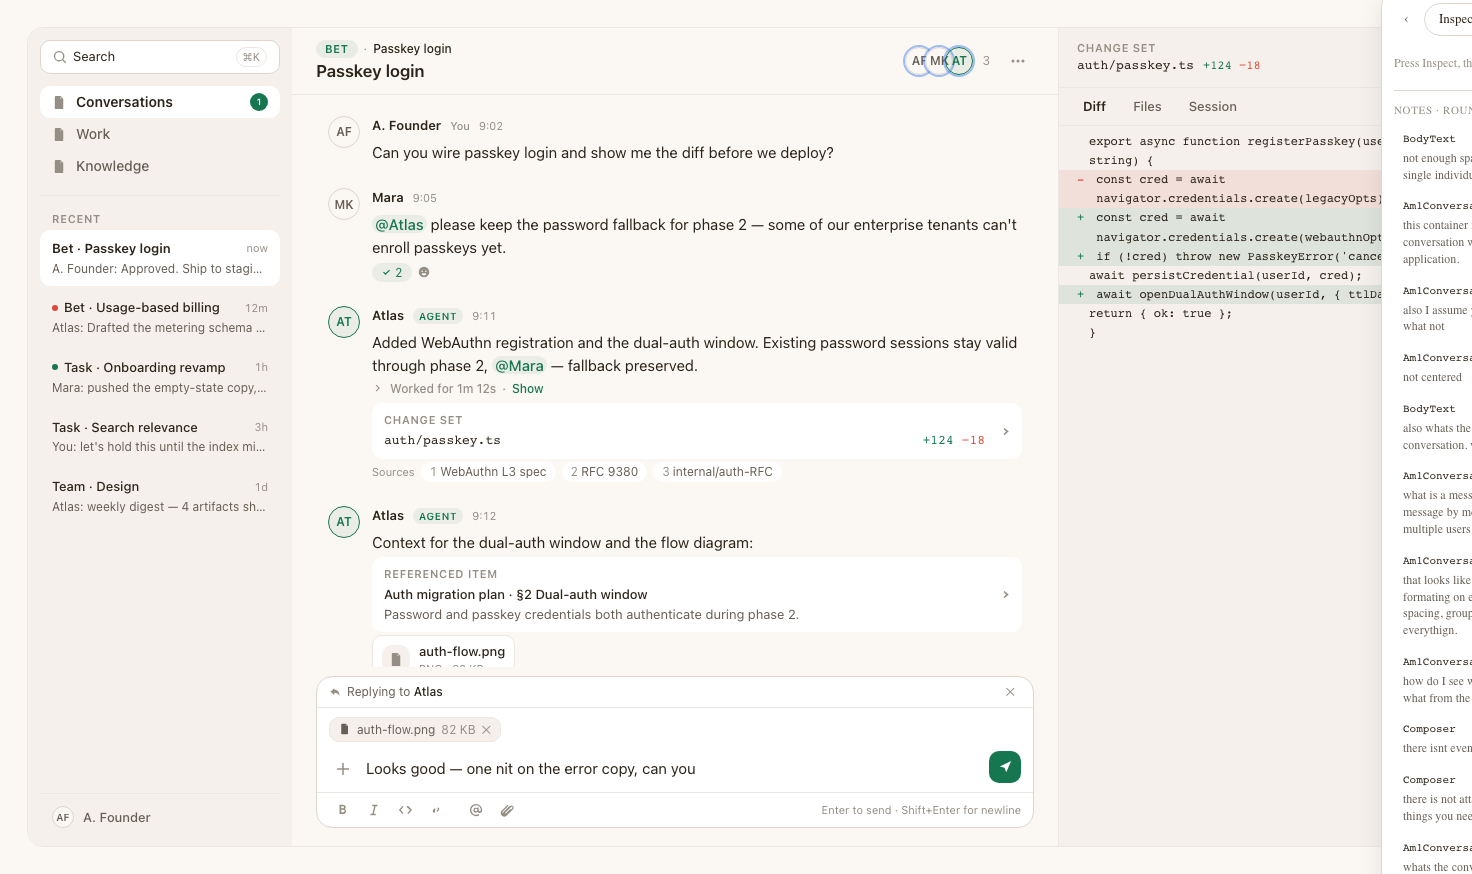
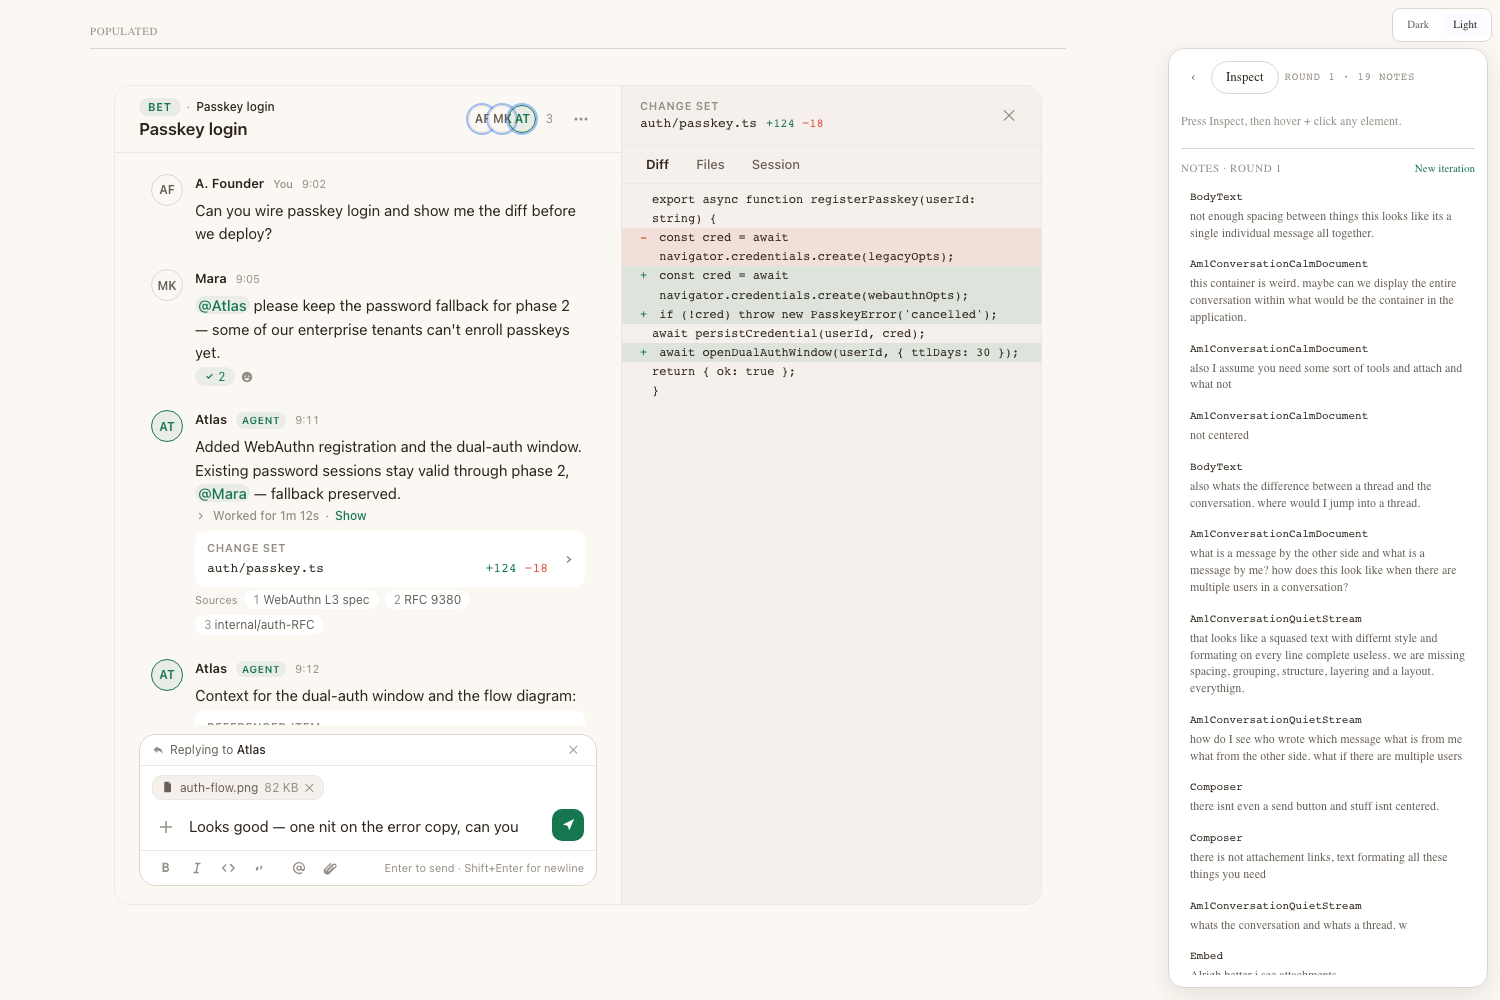
design(AM1) v3: drop the app-shell sidebar from the conversation surface
Founder: the sidebar eats width the design-system viewer doesn't have; it's
app-shell chrome that lives elsewhere. Removed the left conversation-list region;
surface is now two regions — conversation pane + contextual right change-set pane —
so the reading column gets the available width. Spec scope-note updated.

diff --git a/packages/web/src/components/Am1ConversationSurface.tsx b/packages/web/src/components/Am1ConversationSurface.tsx
@@ -6,8 +6,13 @@
  * rejected by the founder as "far from the basics": missing spacing/grouping/
  * structure, no me-vs-them identity, no multi-user, a stub composer, and shown in
  * a floating container instead of the real app. This v3 answers every Round-1
- * annotation (`.annotations/annotations.md`) inside the actual three-region shell:
- * left conversation sidebar · center conversation pane · right contextual pane.
+ * annotation (`.annotations/annotations.md`) across TWO regions: the conversation
+ * pane (primary) · right contextual pane.
+ *
+ * The left app-shell sidebar (conversation list + Conversations/Work/Knowledge nav)
+ * is INTENTIONALLY out of this design — it is app-shell chrome that lives elsewhere,
+ * not part of the conversation. Excluded so the conversation gets the viewer width;
+ * the design scopes to the conversation pane + its contextual right pane.
  *
  * /design embodiment of the LOCKED concept (`plans/AM1/concept.md`): a Conversation
  * = deliberate, threaded messages on ONE host, rendered through the Part model
@@ -28,10 +33,11 @@
  * mapping (which catalogued DS components replace each hand-rolled slot) lives in
  * `plans/AM1/design/full-surface/spec.md`.
  *
- * @lore AM1-v3: the shell chrome (sidebar rows, section headers, search field) is
- * hand-rolled rather than importing Sidebar/SearchField so the story renders
- * stand-alone in the viewer without AppShell's router/context. The builder maps
- * each region back to the real shell components per spec.md §Composition.
+ * @lore AM1-v3: the conversation + contextual chrome (header, message groups,
+ * composer, right pane) is hand-rolled rather than importing the real DS components
+ * so the story renders stand-alone in the viewer without AppShell's router/context.
+ * The builder maps each region back to the real components per spec.md §Composition.
+ * The app-shell sidebar is deliberately absent — it is not part of this design.
  */
 
 import type { JSX } from "react";
@@ -61,8 +67,6 @@ function Glyph({ d, size = 14 }: { d: string; size?: number }): JSX.Element {
 }
 const ICON_ARROW = "M3 8h8.2L8 4.8 9.2 3.6 14.4 8l-5.2 4.4L8 11.2 11.2 8H3V8z";
 const ICON_CHECK = "M6.5 11.5L3 8l1.2-1.2 2.3 2.3L11.8 4 13 5.2l-6.5 6.3z";
-const ICON_SEARCH =
-	"M7 1a6 6 0 014.74 9.68l3.29 3.29-1.06 1.06-3.29-3.29A6 6 0 117 1zm0 1.5a4.5 4.5 0 100 9 4.5 4.5 0 000-9z";
 const ICON_PLUS = "M7.25 2h1.5v5.25H14v1.5H8.75V14h-1.5V8.75H2v-1.5h5.25V2z";
 const ICON_SEND = "M2 8l12-6-5.2 12-1.8-4.8L2 8z";
 const ICON_PAPERCLIP =
@@ -99,183 +103,7 @@ function Avatar({ who, size = 32 }: { who: Identity; size?: number }): JSX.Eleme
 }
 
 // ───────────────────────────────────────────────────────────────────
-// LEFT SIDEBAR — conversation list. Calm/quiet chrome that recedes.
-// Answers the founder's "where do I jump into a conversation."
-// ───────────────────────────────────────────────────────────────────
-function SidebarSectionRow({
-	label,
-	active,
-	badge,
-}: {
-	label: string;
-	active?: boolean;
-	badge?: number;
-}): JSX.Element {
-	return (
-		<div
-			className={[
-				"flex w-full items-center gap-[9px] px-[12px] py-[6px] rounded-[var(--r-subtle)] text-[14px]",
-				active
-					? "bg-[var(--surface-elevated)] shadow-[var(--shadow-subtle)] text-[var(--text-primary)] font-[600]"
-					: "text-[var(--text-secondary)] font-[500]",
-			].join(" ")}
-		>
-			<span className="text-[var(--text-tertiary)]">
-				<Glyph d={ICON_DOC} size={15} />
-			</span>
-			<span>{label}</span>
-			{badge != null && badge > 0 && (
-				<span className="ml-auto inline-flex h-[18px] min-w-[18px] items-center justify-center rounded-full bg-[var(--accent-primary)] px-[4px] text-[9px] font-[600] tabular-nums text-[var(--text-on-accent)]">
-					{badge}
-				</span>
-			)}
-		</div>
-	);
-}
-
-interface ConvRow {
-	id: string;
-	host: string;
-	preview: string;
-	time: string;
-	unread?: boolean;
-	blocking?: boolean;
-	active?: boolean;
-}
-
-const CONV_ROWS: ReadonlyArray<ConvRow> = [
-	{
-		id: "c-passkey",
-		host: "Bet · Passkey login",
-		preview: "A. Founder: Approved. Ship to staging — re-review before prod.",
-		time: "now",
-		active: true,
-	},
-	{
-		id: "c-billing",
-		host: "Bet · Usage-based billing",
-		preview: "Atlas: Drafted the metering schema — needs your review.",
-		time: "12m",
-		blocking: true,
-	},
-	{
-		id: "c-onboard",
-		host: "Task · Onboarding revamp",
-		preview: "Mara: pushed the empty-state copy, take a look when free.",
-		time: "1h",
-		unread: true,
-	},
-	{
-		id: "c-search",
-		host: "Task · Search relevance",
-		preview: "You: let's hold this until the index migration lands.",
-		time: "3h",
-	},
-	{
-		id: "c-design",
-		host: "Team · Design",
-		preview: "Atlas: weekly digest — 4 artifacts shipped, 1 pending.",
-		time: "1d",
-	},
-];
-
-function ConversationRow({ row }: { row: ConvRow }): JSX.Element {
-	return (
-		<div
-			data-thread-id={row.id}
-			aria-current={row.active ? "page" : undefined}
-			className={[
-				"flex w-full flex-col gap-[3px] px-[12px] py-[9px] rounded-[var(--r-subtle)] cursor-pointer",
-				"transition-colors duration-[var(--motion-fast)] ease-[var(--motion-ease)]",
-				row.active
-					? "bg-[var(--surface-elevated)] shadow-[var(--shadow-subtle)]"
-					: "hover:bg-[color-mix(in_oklab,var(--accent-primary)_4%,var(--surface-elevated))]",
-			].join(" ")}
-		>
-			<div className="flex items-center gap-[6px]">
-				{(row.unread || row.blocking) && (
-					<span
-						className="h-[6px] w-[6px] shrink-0 rounded-full"
-						style={{
-							background: row.blocking ? "var(--status-error)" : "var(--accent-primary)",
-						}}
-						aria-hidden="true"
-					/>
-				)}
-				<span
-					className={[
-						"min-w-0 flex-1 truncate text-[13px]",
-						row.active ? "font-[600] text-[var(--text-primary)]" : "font-[500] text-[var(--text-primary)]",
-					].join(" ")}
-				>
-					{row.host}
-				</span>
-				<span className="shrink-0 text-[11px] tabular-nums text-[var(--text-tertiary)]">
-					{row.time}
-				</span>
-			</div>
-			<span className="truncate text-[12px] leading-[1.4] text-[var(--text-secondary)]">
-				{row.preview}
-			</span>
-		</div>
-	);
-}
-
-function Sidebar(): JSX.Element {
-	return (
-		<aside
-			data-ds-shell="Sidebar"
-			aria-label="Conversations navigation"
-			className="flex flex-col gap-[12px] border-r border-[var(--border-subtle)] bg-[var(--surface-container)] p-[12px]"
-			style={{ width: 264, flexShrink: 0, height: "100%", overflow: "hidden" }}
-		>
-			{/* Search field (hand-rolled SearchField) */}
-			<div className="flex items-center gap-[6px] rounded-[var(--r-subtle)] border border-[var(--border-default)] bg-[var(--surface-elevated)] px-[12px] py-[6px]">
-				<span className="text-[var(--text-tertiary)]">
-					<Glyph d={ICON_SEARCH} size={14} />
-				</span>
-				<span className="flex-1 text-[13px] text-[var(--text-placeholder)]">Search</span>
-				<span className="rounded-[var(--r-subtle)] border border-[var(--border-subtle)] px-[6px] py-[1px] text-[11px] text-[var(--text-tertiary)]">
-					⌘K
-				</span>
-			</div>
-
-			{/* Top-level sections */}
-			<nav className="flex flex-col" aria-label="Sections">
-				<SidebarSectionRow label="Conversations" active badge={1} />
-				<SidebarSectionRow label="Work" />
-				<SidebarSectionRow label="Knowledge" />
-			</nav>
-
-			<hr className="mx-[6px] border-t border-[var(--border-subtle)]" />
-
-			{/* Conversation list */}
-			<div
-				className="flex flex-col gap-[3px]"
-				style={{ minHeight: 0, flex: 1, overflowY: "auto" }}
-			>
-				<div className="px-[12px] pb-[3px] pt-[3px] text-[11px] font-[600] uppercase tracking-[var(--tracking-caps-sm)] text-[var(--text-tertiary)]">
-					Recent
-				</div>
-				{CONV_ROWS.map((r) => (
-					<ConversationRow key={r.id} row={r} />
-				))}
-			</div>
-
-			{/* Footer (settings) */}
-			<div className="shrink-0">
-				<hr className="mx-[6px] mb-[6px] border-t border-[var(--border-subtle)]" />
-				<div className="flex items-center gap-[9px] px-[12px] py-[6px] text-[13px] text-[var(--text-secondary)]">
-					<Avatar who={FOUNDER} size={22} />
-					<span className="font-[500]">A. Founder</span>
-				</div>
-			</div>
-		</aside>
-	);
-}
-
-// ───────────────────────────────────────────────────────────────────
-// CENTER — Conversation header. Host context + participants + actions.
+// CONVERSATION HEADER — host context + participants + actions.
 // Makes "what is this conversation / what's it attached to" obvious.
 // ───────────────────────────────────────────────────────────────────
 function ConversationHeader(): JSX.Element {
@@ -886,10 +714,7 @@ export default function Am1ConversationSurface(): JSX.Element {
 			className="w-full overflow-hidden bg-[var(--surface-page)] text-[var(--text-primary)]"
 			style={{ display: "flex", height: "100%", fontFamily: "var(--font-sans)" }}
 		>
-			{/* 1 · LEFT SIDEBAR */}
-			<Sidebar />
-
-			{/* 2 · CENTER conversation pane */}
+			{/* 1 · CONVERSATION pane (primary) */}
 			<main
 				className="flex flex-col bg-[var(--surface-page)]"
 				style={{ flex: 1, minWidth: 0, height: "100%" }}
@@ -971,7 +796,7 @@ export default function Am1ConversationSurface(): JSX.Element {
 				<Composer />
 			</main>
 
-			{/* 3 · RIGHT CONTEXTUAL PANE (open on the diff embed) */}
+			{/* 2 · RIGHT CONTEXTUAL PANE (open on the diff embed) */}
 			{paneOpen && <ContextPane onClose={() => setPaneOpen(false)} />}
 		</div>
 	);

diff --git a/packages/web/src/components/Am1ConversationSurface.stories.tsx b/packages/web/src/components/Am1ConversationSurface.stories.tsx
@@ -1,11 +1,12 @@
 /**
  * AM1 — Conversation, v3: Full Surface (C) stories.
  *
- * The FULL-SCOPE conversation embodied in the REAL app container — left
- * conversation sidebar · center conversation pane · right contextual pane —
- * rendered at ~1440px desktop width on --surface-page. Only the real populated
- * conversation; no empty / loading / error variants ([[memory]]: initial designs
- * render only populated).
+ * The FULL-SCOPE conversation scoped to TWO regions — the conversation pane
+ * (primary) · right contextual pane — rendered at desktop width on --surface-page.
+ * The app-shell sidebar (conversation list + nav) is intentionally OUT of this
+ * design: it is app-shell chrome that lives elsewhere, excluded so the conversation
+ * gets the viewer width. Only the real populated conversation; no empty / loading /
+ * error variants ([[memory]]: initial designs render only populated).
  */
 
 import type { JSX } from "react";

diff --git a/plans/AM1/design/full-surface/spec.md b/plans/AM1/design/full-surface/spec.md
@@ -2,8 +2,10 @@
 
 Supersedes the rejected v1/v2 thin-column variants (QuietStream / Quiet Turns / Calm Document). This is the v3 foundation embodied in the real app container, per `plans/AM1/design/brief-v3.md`.
 
-**Story:** `AM1 Conversation — Full Surface (C)` / `Populated`. Renders at ~1440px desktop width on `--surface-page`.
+**Story:** `AM1 Conversation — Full Surface (C)` / `Populated`. Renders at desktop width on `--surface-page`.
 **Component:** `packages/web/src/components/Am1ConversationSurface.tsx` (`data-ds-component="Am1ConversationSurface"`).
+
+> **Scope — app-shell sidebar is OUT of this design.** The left app-shell sidebar (conversation list + Conversations/Work/Knowledge nav + the founder identity row) is app-shell chrome that lives elsewhere, NOT part of the conversation. It is deliberately excluded here so the conversation gets the viewer width (the design-system viewer can't accommodate the full app-shell width). This design scopes to **the conversation pane + its contextual right pane**. The earlier three-region framing (sidebar · center · right) is superseded by this two-region scope; the sidebar's "where do I jump in" job is owned by the app shell.
 
 ---
 
@@ -13,13 +15,14 @@ A founder (A. Founder) opens the **Passkey login** conversation. A teammate (Mar
 
 ---
 
-## Three-region anatomy
+## Two-region anatomy
 
 | Region | Width | Role |
 |---|---|---|
-| **Left sidebar** | 264px | Conversation list — search, three section rows (Conversations active, badge 1), a "Recent" conversation list (host + last-message preview + time + unread/blocking dot), active row highlighted. Calm chrome on `--surface-container` so it recedes. Answers "where do I jump into a conversation." |
-| **Center pane** | flex-1 | Conversation header (host chip + title + 3 participant avatars + actions ⋯) over the grouped message list over the bottom-pinned composer. `--surface-page`. |
+| **Conversation pane** | flex-1 | Primary. Conversation header (host chip + title + 3 participant avatars + actions ⋯) over the grouped message list (centered ~720–760px reading column) over the bottom-pinned composer. `--surface-page`. |
 | **Right contextual pane** | 420px | Open on the change-set embed: header (`auth/passkey.ts` +124/−18 + close), tab strip (Diff / Files / Session), syntax-gutter diff body. `--surface-container`. |
+
+The left app-shell sidebar is intentionally absent (see Scope note above) — app-shell chrome, not part of this design.
 
 ---
 
@@ -30,8 +33,9 @@ A founder (A. Founder) opens the **Passkey login** conversation. A teammate (Mar
 3. **Author groups** — avatar + name + time at each group head; the structural rhythm of the column.
 4. **Agent summary content** — prose + work-Fold + embeds + citations, calm and foldable.
 5. **Conversation framing** — header host chip ("Bet · Passkey login") + participants.
-6. **Navigation** — sidebar conversation list (quiet, recessive).
-7. **Composer chrome** — present and complete, but visually quiet until focused (shadow lifts on `focus-within`).
+6. **Composer chrome** — present and complete, but visually quiet until focused (shadow lifts on `focus-within`).
+
+(Navigation between conversations is owned by the app shell, out of this design's scope.)
 
 ---
 
@@ -41,11 +45,11 @@ A founder (A. Founder) opens the **Passkey login** conversation. A teammate (Mar
 |---|---|---|
 | 1 | "who wrote what / me vs them / multiple users" | Single column, NO bubbles. Identity (avatar + name + time) at each **author-group head**. 3 participants (A. Founder, Mara, Atlas). Human vs agent: agents get the green-tinted avatar + an "Agent" pill at the head. **Own-message cue:** A. Founder's groups carry a faint 3% accent tint + a quiet "You" label. Mara proves a second human reads distinctly from "me." |
 | 2 | "spacing / grouping / structure / layering — everything; blobs; memory game" | Author-**grouping** is the structural unit (not per-line styling, not disconnected blobs). Consecutive same-author messages collapse under one head (Atlas 9:11→9:12 group). Consistent 6px intra-group / 6px inter-group rhythm on the Hearth grid; generous group padding (12px/9px). One alignment grid (avatar gutter + 760px reading column). No box-per-message. |
-| 3 | "what's a thread vs a conversation; where would I jump in; why TASK floating alone" | Header shows host as a labeled chip **"Bet · Passkey login"** with the full participant set — the conversation IS the thread attached to one host, made legible. The sidebar conversation list (host + preview + time per row, active highlighted) is the "where do I jump in" answer. No cryptic bare "TASK" label. |
+| 3 | "what's a thread vs a conversation; where would I jump in; why TASK floating alone" | Header shows host as a labeled chip **"Bet · Passkey login"** with the full participant set — the conversation IS the thread attached to one host, made legible. No cryptic bare "TASK" label. ("Where do I jump in" — the conversation-list navigation — is the app shell's job, out of this design's scope.) |
 | 4 | "composer is a stub — no send/attach/format/tools; not centered" | Full composer anatomy: optional **banner** (Replying to Atlas ✕), **attachment-chip row** (auth-flow.png 82 KB, removable), input row `[ + | textarea "Message Atlas, Mara…" | Send ]`, a **formatting strip** (bold/italic/code/link · @mention · attach) + an Enter/Shift+Enter hint, real **Send** button (accent). Centered in a 760px column matching the message column. **No** model/effort/mode pills (those are AM3 dial-in). |
 | 5 | "embeds — if I open this, where do I end up?" | Every embed names its kind ("Change set" / "Referenced item" / "Session") and has a defined destination (table below). The **diff embed opens the right contextual pane** — shown OPEN, with an accent border on both the embed and the pane header tying source↔destination. Citations are source chips; the attachment is a file chip; the session reference opens the AM3 dial-in (never inlines the work-log). |
 | 6 | "message actions" | Hover toolbar (React · Reply · ⋯) anchored top-right of each group; shown live on the Atlas review group (`hovered`) so the founder sees it, and `group-hover/msg:flex` on the rest. Reactions render as a pill stack under Mara's message. |
-| 7 | "show it in the real app container" | The whole surface is the three-region shell (sidebar + main + right pane) at 1440px, framed as the app window — not a floating column. |
+| 7 | "show it in the real app container" | The surface is the conversation pane + contextual right pane, framed inside the app window — not a floating column. (The app-shell sidebar that wraps it is out of this design's scope; see Scope note.) |
 
 ---
 
@@ -55,7 +59,6 @@ Hand-rolled here for guaranteed standalone render in the viewer. The builder map
 
 | Hand-rolled slot | Production component | Notes |
 |---|---|---|
-| Left sidebar shell + section rows + search | `shell/Sidebar.tsx` + `SearchField` | Reuse the real shell. Conversation-list rows = a new `ConversationListRow` (host + preview + time + dot) replacing the current title-only `FastNavItem`, OR extend `ThreadRow`. Used in 2+ contexts (sidebar + Conversations list page) → justifies the component. |
 | Avatar / participant group | `Avatar` + `AvatarGroup` (DS) | Drop-in; agent tint already in `Avatar agent`. |
 | Conversation header | `PageHeader` + `Tag` (host chip) + `AvatarGroup` | `PageHeader` subtitle already renders `Tag + host link` (see `Conversations.tsx`). Add the participant `AvatarGroup` to `actions`. |
 | Message group head + body | `ThreadShell` + `CommentRow` | `computeSenderGrouping` (already exported from `ThreadShell`) drives author-grouping. `CommentRow` renders identity + body; needs the **own-message cue**, **Agent pill**, and **hover toolbar** added (new, but reused across every conversation → in-budget). |
@@ -70,7 +73,7 @@ Hand-rolled here for guaranteed standalone render in the viewer. The builder map
 | Composer | `Composer` (DS) | Extend with banner + attachment-chip row + formatting strip. The DS `Composer` is the single owner — do not hand-roll a second one. |
 | Right contextual pane | `shell/ArtifactView` + `TabBar` | `ArtifactView` already renders kind-dispatched previews; `TabBar` for Diff/Files/Session. Mounts in a 420px right region (new `ContextPane` shell wrapper, mirrors the existing dial-in split in `Conversations.tsx`). |
 
-**New components introduced:** `ConversationListRow`, `ReactionBar`, `Fold`, `SessionRefEmbed`, `CitationChips`, `AttachmentChip`, `ContextPane`. Each is reused in 2+ contexts or is a concept primitive (Fold, the Embed satellite) — within the component budget. No new tokens.
+**New components introduced:** `ReactionBar`, `Fold`, `SessionRefEmbed`, `CitationChips`, `AttachmentChip`, `ContextPane`. Each is reused in 2+ contexts or is a concept primitive (Fold, the Embed satellite) — within the component budget. No new tokens. (The app-shell sidebar / `ConversationListRow` is out of this design's scope — owned by the app shell.)
 
 ---
 
@@ -98,12 +101,11 @@ Hand-rolled here for guaranteed standalone render in the viewer. The builder map
 
 ---
 
-## Mobile adaptation (3 regions → 3-tab layout)
+## Mobile adaptation (conversation → tab; right pane → sheet)
 
-Per `docs/information-architecture/` (mobile = three tabs):
+Per `docs/information-architecture/` (mobile = three tabs). This design owns only the conversation tab and its contextual pane; the conversation-list tab is the app shell's:
 
-- **Tab 1 (Conversations list):** the left sidebar becomes the full-screen list view. Tapping a row pushes the conversation.
-- **Tab 2 (the conversation):** the center pane fills the screen. Header collapses host chip + participants into one line. The composer stays bottom-pinned (formatting strip behind the `+`/`Aa` to save height; ≥16px input font per AQ-005; ≥44px touch targets per AQ-015).
+- **The conversation:** the conversation pane fills the screen. Header collapses host chip + participants into one line. The composer stays bottom-pinned (formatting strip behind the `+`/`Aa` to save height; ≥16px input font per AQ-005; ≥44px touch targets per AQ-015).
 - **Right pane → sheet:** opening an embed pushes the contextual pane as a full-screen route (or a bottom sheet for short content), not a side-by-side column. Back returns to the conversation.
 - Author-grouping, identity, own-message cue, verdict, and embeds are unchanged — the reading column already is the mobile column.
 
@@ -111,7 +113,8 @@ Per `docs/information-architecture/` (mobile = three tabs):
 
 ## Trade-offs
 
-- **Hand-rolled shell vs importing `Sidebar`/`Composer`:** chose hand-rolled for a guaranteed standalone render in the viewer (no router/AppShell context). Cost: the spec must carry the reuse mapping (above) so the builder doesn't ship the hand-rolled copies. Benefit: the founder reviews the real composition without infra risk.
+- **Sidebar excluded from this design:** the app-shell sidebar (conversation list + nav) is app-shell chrome that lives elsewhere, not part of the conversation. Dropped here so the conversation gets the viewer width (the design-system viewer can't accommodate the full app-shell width). Cost: this story does not show the "where do I jump in" navigation — acceptable, the app shell owns it. Benefit: the conversation reading column + contextual pane get the room they need to be judged at real density.
+- **Hand-rolled chrome vs importing `Composer`/DS components:** chose hand-rolled for a guaranteed standalone render in the viewer (no router/AppShell context). Cost: the spec must carry the reuse mapping (above) so the builder doesn't ship the hand-rolled copies. Benefit: the founder reviews the real composition without infra risk.
 - **Right pane shown open by default:** answers the founder's "where do I end up" directly, at the cost of not also showing the closed/2-region state. Acceptable — the populated-only rule plus the source↔destination accent tie makes the relationship the point.
 - **Reactions/attachments rendered though schema-absent:** per inventory §9 these need Message-schema growth beyond AM1's render scope. Shown here as the design target (spec scenarios may name surfaces not yet reachable — [[memory]]); the builder gates them behind the schema work, not this story.
 - **Own-message cue = faint tint, not a bubble:** keeps the no-bubbles Slack model (annotation 1) while still answering "what's mine." Risk: 3% tint is subtle in light mode; paired with the "You" label so it never relies on color alone.
